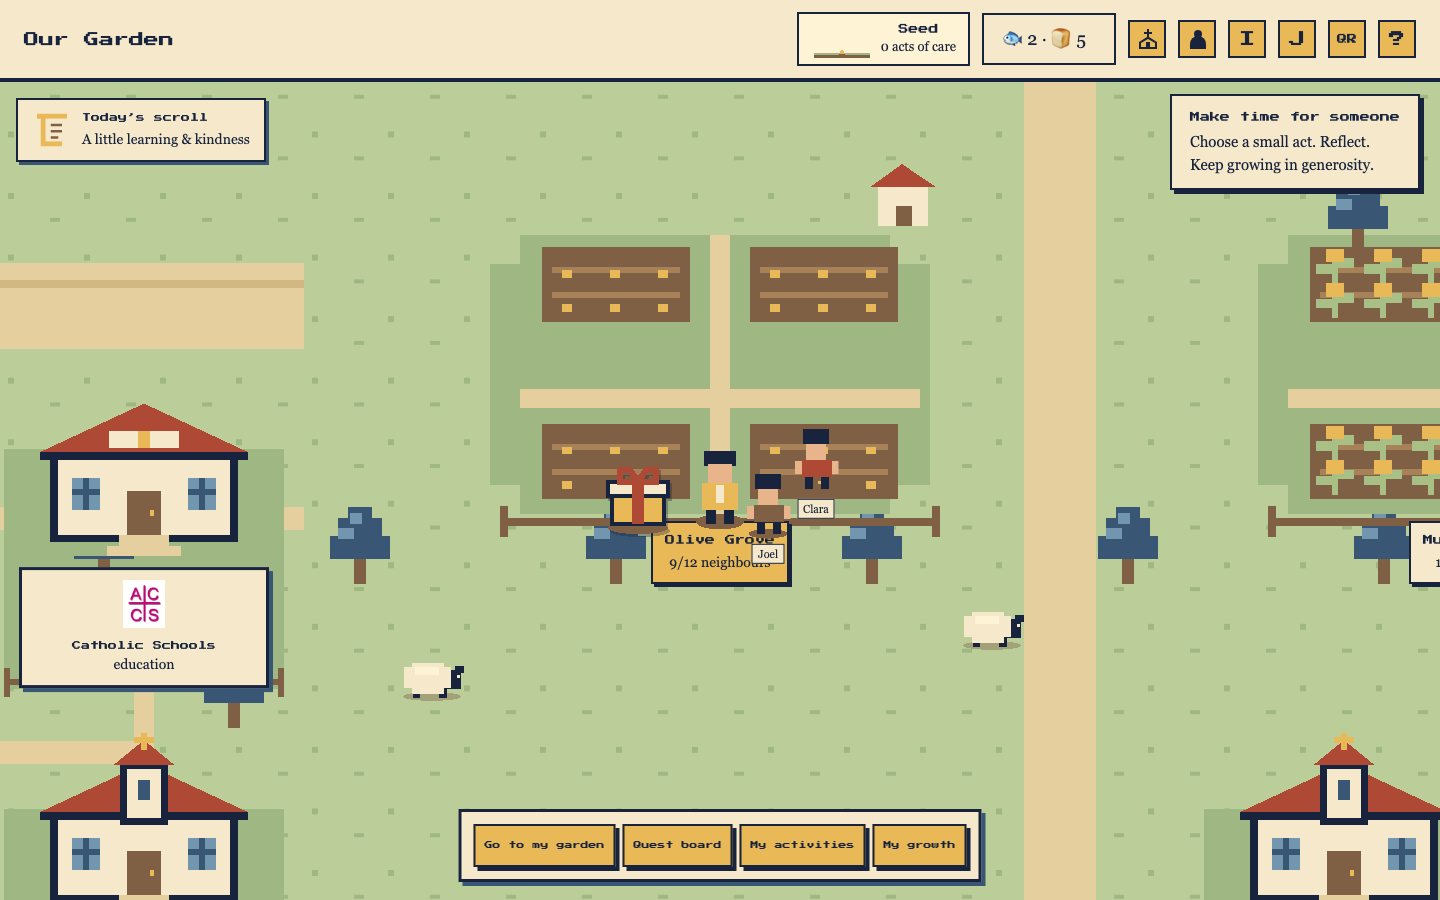
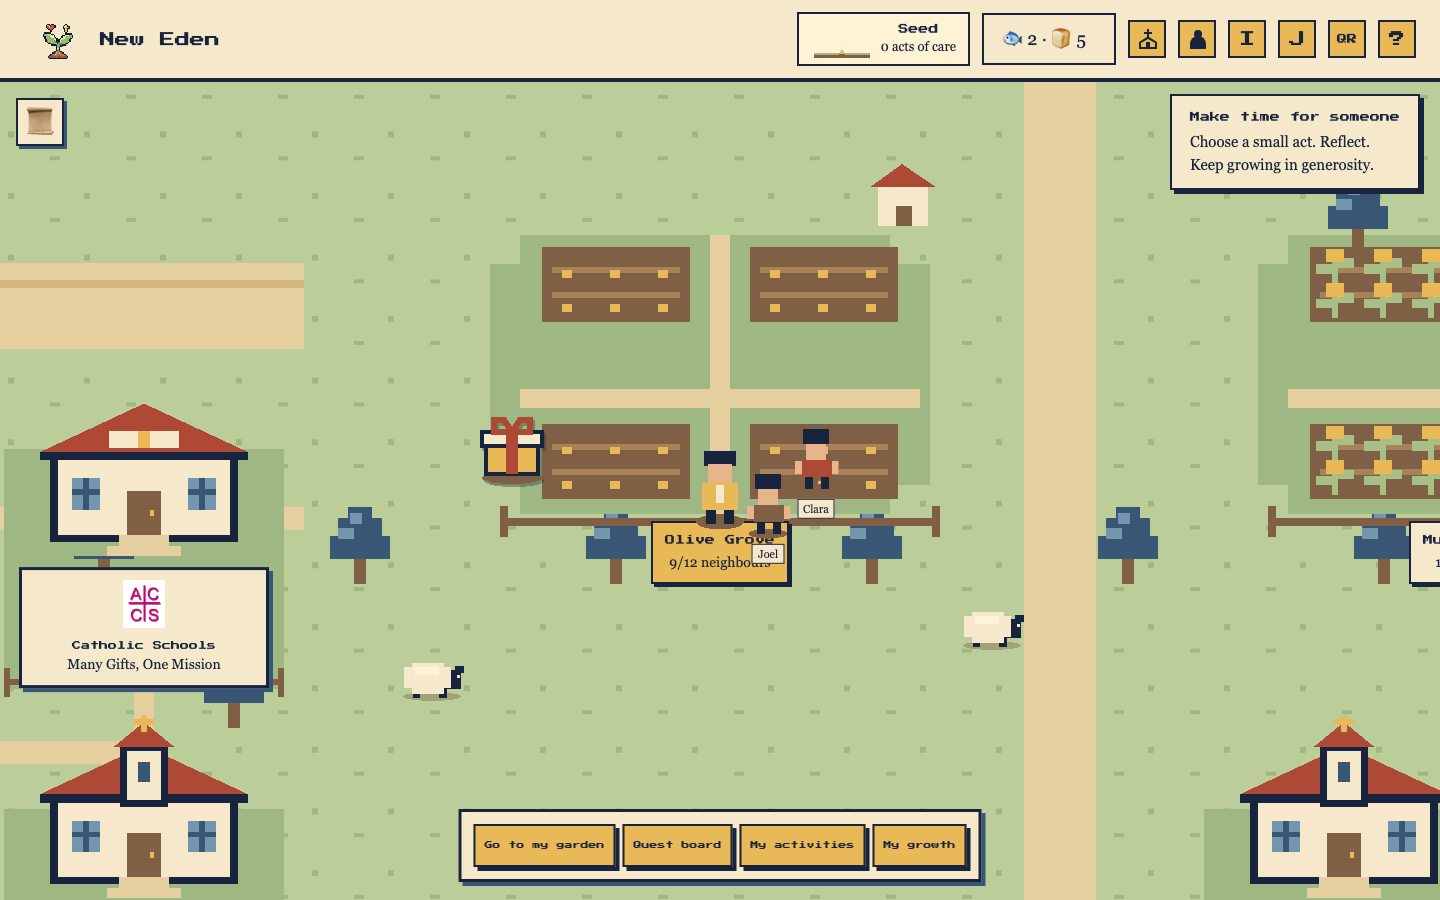
fixed minor UI and updated readme

diff --git a/src/styles.css b/src/styles.css
@@ -114,7 +114,7 @@
 
 .stewardship-learning{padding:20px;background:#fff3d6;border:3px solid var(--ink);margin-bottom:24px}.learning-heading{display:flex;justify-content:space-between;gap:16px;align-items:start}.learning-heading h3{font-size:23px;margin:8px 0}.stewardship-learning .eyebrow{font:9px/1.8 var(--pixel)}.learning-tabs{display:flex;gap:8px;flex-shrink:0}.learning-tabs button{font:16px Georgia,serif;background:var(--paper);color:var(--ink);border:2px solid var(--ink);padding:10px;min-height:44px}.learning-tabs button[aria-pressed=true]{background:var(--gold)}.learning-theme{color:var(--blue);font-size:15px;margin:8px 0 18px}.learning-prompt{min-height:110px;font:18px/1.6 Georgia,serif}.learning-prompt p{margin:8px 0 20px}.learning-prompt label{display:block}.learning-prompt textarea{display:block;width:100%;box-sizing:border-box;margin-top:10px;padding:12px;border:2px solid var(--ink);background:var(--paper);font:17px/1.5 Georgia,serif}.learning-prompt small,.learning-source{display:block;font:14px/1.5 Georgia,serif;color:var(--blue)}.learning-actions{display:flex;gap:12px;flex-wrap:wrap;margin:18px 0}.stewardship-learning>a{font:16px Georgia,serif}.learning-source{margin-top:8px}
 
-.quest-daily-row{display:grid;grid-template-columns:minmax(0,1fr) minmax(0,1fr);gap:16px;margin-bottom:20px;align-items:start}.quest-daily-row .stewardship-learning,.quest-daily-row .daily-gift{margin:0;padding:16px;border-width:2px;box-shadow:none}.quest-daily-row .daily-gift{display:block}.quest-daily-row h3{font:700 20px/1.3 Georgia,serif;margin:8px 0}.quest-daily-row p{font-size:16px;line-height:1.4;margin:8px 0 12px}.quest-daily-row .eyebrow{font:8px/1.7 var(--pixel);margin:0 0 8px}.quest-daily-row .learning-heading{display:block}.quest-daily-row .learning-tabs{gap:6px;margin:8px 0}.quest-daily-row .learning-tabs button{font-size:14px;padding:6px 10px}.quest-daily-row .pixel-button{font-size:9px;padding:12px;min-height:44px;margin:0 0 8px}.quest-daily-row .daily-gift .pixel-button{width:auto}.quest-daily-row .learning-theme,.quest-daily-row .learning-source{display:none}.quest-daily-row .stewardship-learning>a{display:block;font-size:13px;margin-top:4px}.quest-daily-row .learning-prompt{min-height:0;font-size:16px}.quest-daily-row .learning-actions{margin:12px 0 0}
+.quest-daily-row{display:grid;grid-template-columns:repeat(2,minmax(0,1fr));gap:16px;margin-bottom:20px;align-items:stretch}.quest-daily-row .stewardship-learning,.quest-daily-row .daily-gift{margin:0;padding:16px;border-width:2px;box-shadow:none;min-width:0}.quest-daily-row .daily-gift{display:flex;flex-direction:column;justify-content:space-between}.quest-daily-row h3{font:700 20px/1.3 Georgia,serif;margin:8px 0}.quest-daily-row p{font-size:16px;line-height:1.4;margin:8px 0 12px}.quest-daily-row .eyebrow{font:8px/1.7 var(--pixel);margin:0 0 8px}.quest-daily-row .learning-heading{display:block}.quest-daily-row .learning-tabs{gap:6px;margin:8px 0}.quest-daily-row .learning-tabs button{font-size:14px;padding:6px 10px}.quest-daily-row .pixel-button{font-size:9px;padding:12px;min-height:44px;margin:0 0 8px}.quest-daily-row .daily-gift .pixel-button{width:auto}.quest-daily-row .learning-theme,.quest-daily-row .learning-source{display:none}.quest-daily-row .stewardship-learning>a{display:block;font-size:13px;margin-top:4px}.quest-daily-row .learning-prompt{min-height:0;font-size:16px}.quest-daily-row .learning-actions{margin:12px 0 0}
 .today-scroll{position:absolute;top:16px;left:16px;z-index:5;display:grid;place-items:center;background:var(--paper);color:var(--ink);border:2px solid var(--ink);box-shadow:3px 3px var(--blue);padding:0;cursor:pointer;width:48px;height:48px}.today-scroll span{font:28px/1 Georgia,serif}
 .parish-tabs{display:flex;gap:8px;margin-bottom:20px}.parish-tabs button{min-height:44px;padding:9px 14px;border:2px solid var(--ink);background:var(--paper)}.parish-tabs button[aria-pressed=true]{background:var(--gold)}.parish-polls form,.poll-answer form{display:grid;gap:12px}.parish-polls label,.poll-answer label{display:block}.parish-polls input:not([type=radio]){width:100%;max-width:none;min-height:44px;border:2px solid var(--ink);background:#fff3d6;padding:10px}.parish-polls fieldset,.poll-answer fieldset{border:2px solid var(--ink);display:grid;gap:8px}.parish-polls fieldset label,.poll-answer fieldset label{display:flex;gap:10px;align-items:center}.parish-polls input[type=radio],.poll-answer input[type=radio]{accent-color:var(--blue)}.poll-insight,.poll-answer{margin-top:18px;padding:16px;border:2px solid var(--ink);background:#fff3d6}.poll-insight small{display:block;color:var(--blue)}.poll-insight ul{padding-left:20px}.poll-answer .pixel-button{justify-self:start}.parish-polls :focus-visible,.poll-answer :focus-visible,.parish-tabs :focus-visible{outline:3px solid var(--rose);outline-offset:3px}
 .poll-answer{max-width:100%;padding:20px}.poll-answer h3{font:700 22px/1.3 Georgia,serif;margin:4px 0}.poll-audience{font-size:14px;color:var(--blue);margin:0 0 12px}.poll-question{font-size:18px;line-height:1.4;margin:0 0 18px}.poll-answer fieldset{min-width:0;margin:0;padding:0;border:0;gap:8px}.poll-answer legend{font-size:15px;font-weight:700;margin-bottom:10px}.poll-answer fieldset .poll-choice{display:grid;grid-template-columns:20px minmax(0,1fr);gap:12px;align-items:center;min-width:0;min-height:52px;margin:0;padding:12px;border:2px solid var(--ink);background:var(--paper);font:16px/1.4 Georgia,serif;cursor:pointer}.poll-answer fieldset .poll-choice:hover{background:#fff8e9}.poll-answer fieldset .poll-choice:has(input:checked){background:var(--gold)}.poll-answer .poll-choice input[type=radio],.parish-polls fieldset input[type=radio]{display:block;width:18px;height:18px;max-width:18px;min-width:18px;margin:0;padding:0;accent-color:var(--blue);justify-self:start;flex:none}.poll-answer .poll-choice span{min-width:0;overflow-wrap:anywhere}.poll-answer .pixel-button{margin-top:6px}.parish-polls fieldset{min-width:0}.parish-polls fieldset label{gap:12px;min-height:44px;margin:0}.parish-polls fieldset input[type=radio]{margin:0}

diff --git a/src/mobile.css b/src/mobile.css
@@ -38,6 +38,18 @@
 /* Render the mobile world at 50% scale without shrinking the HUD. */
 @media(max-width:900px){.game-world .map{zoom:.5}}
 @media(max-width:900px){.stewardship-learning{padding:14px}.learning-heading{display:block}.learning-tabs{margin:12px 0;flex-wrap:wrap}.learning-prompt{font-size:17px}.learning-actions .pixel-button{width:100%}}
-@media(max-width:600px){.quest-daily-row{grid-template-columns:minmax(0,1fr);gap:12px}.quest-daily-row .learning-actions .pixel-button{width:auto}}
+@media(max-width:600px){
+ .quest-daily-row{grid-template-columns:minmax(0,1fr);gap:10px;margin-bottom:16px}
+ .quest-daily-row .stewardship-learning,.quest-daily-row .daily-gift{padding:12px}
+ .quest-daily-row .daily-gift{gap:4px}
+ .quest-daily-row h3{font-size:19px;margin:4px 0 6px}
+ .quest-daily-row p{font-size:15px;line-height:1.35;margin:6px 0 8px}
+ .quest-daily-row .eyebrow{margin-bottom:4px}
+ .quest-daily-row .learning-tabs{margin:6px 0;gap:6px}
+ .quest-daily-row .learning-tabs button{flex:1;font-size:13px;padding:6px 8px}
+ .quest-daily-row .pixel-button{margin-bottom:4px;padding:8px 10px}
+ .quest-daily-row .learning-actions .pixel-button{width:auto}
+ .quest-daily-row .stewardship-learning>a{margin-top:0}
+}
 @media(max-width:900px){.today-scroll{top:12px;left:12px;width:44px;height:44px}.today-scroll span{font-size:26px}}
 @media(max-width:900px){.game-world:has(.today-scroll) .world-tip{top:84px}}

diff --git a/README.md b/README.md
@@ -19,7 +19,7 @@ Built for the Catholic FIAT hackathon organised by the Archdiocese of Singapore.
 
 [Open New Eden](https://fiat-hackathon-iota.vercel.app)
 
-The experience supports desktop and mobile browsers. On phones, use **Explore map** to reach gardens, organisations and gifts; the world is shown at half scale with touch-friendly navigation. Walk by clicking open ground or using the arrow keys / WASD. Visit garden signs and organisation buildings, explore the quest board, and use **Go to my garden** to return home. The welcome introduction can be replayed using the **I** button or from Help. Open the Giving Store from the wallet, and use the labelled HUD buttons for **Parish team** and **My profile**.
+The experience supports desktop and mobile browsers. On phones, the world is shown at half scale; use the touch-friendly map signs and bottom toolbar to navigate. Walk by clicking open ground or using the arrow keys / WASD. Visit garden signs and organisation buildings, explore the quest board, and use **Go to my garden** to return home. The Mustard Seed introduction can be replayed using the **I** button or from Help. Open the Giving Store from the wallet, and use the labelled HUD buttons for **Parish team** and **My profile**.
 
 A suggested walkthrough:
 
@@ -29,16 +29,18 @@ A suggested walkthrough:
 4. Mark the activity complete and see your contribution garden grow.
 5. Pause to reflect, explore researched Catholic pathways, or visit the Giving Store.
 6. Open **Parish team** to create a quest with a purpose, duration, volunteer capacity, help type and three practical steps; find it on the quest board and try its participation flow.
+7. Switch to **Surveys** to draft a parish or Mass-specific survey, then answer it in Today’s scroll and review local response counts.
 
-The hosted version may differ from changes in the local checkout.
+The screenshots below show the local build. The hosted version may differ from changes in the local checkout.
 
 ## What works
 
 - **Explorable garden:** original pixel scenery, avatar movement, community plots, wandering neighbours and sheep, and organisation stops.
 - **Community participation:** join or create a garden with room for up to 12 and choose fictional parish companions. A collapsible meetup form offers the next six weekends and a St Mary’s Mass selection based on a user-supplied schedule; proposals remain local.
 - **Gardener profile:** selectable word-cloud buttons for gifts, causes, personal intention and participation capacity. Eight concise cause groups map to the 17 research categories used for recommendations.
-- **Today’s scroll:** a map shortcut opens seven rotating original daily learning topics, weekly circle learning and a daily small act. Learning follows reading, exercise and reflection, with one symbolic loaf per dated daily or weekly completion. The scroll disappears after today’s learning and small act are complete; reopening preserves session progress. Content is inspired by God, Money & Me themes and does not certify official course completion.
+- **Today’s scroll:** a compact map icon opens seven rotating original daily learning topics, weekly circle learning, a daily small act and parish surveys. Learning follows reading, exercise and reflection, with one symbolic loaf per dated daily or weekly completion. The scroll disappears after today’s learning, small act and available surveys are complete; reopening preserves session progress. Content is inspired by God, Money & Me themes and does not certify official course completion.
 - **Giving activities:** nine seeded illustrative quests, gift-based recommendations, size filters, daily small-giving invitations, accepted activities and self-reported completion. Participation bars show seeded signup counts plus your own acceptance; full quests prevent new acceptance.
+- **Parish surveys:** the Parish team editor supports one to five questions with two to six choices each, targeted to everyone in the demo parish or a named Mass. Today’s scroll includes a sample survey and newly posted surveys. Participants answer each survey once per session for one symbolic loaf; the local insights list shows per-question counts.
 - **Parish quest studio:** create session-only quests with a title, purpose, duration, 1–500 volunteer places, help type and three steps. Full-width fields and inline help-type choices keep the form easy to scan. Published quests support acceptance, completion, garden growth and a Scripture-based reflection.
 - **Personal growth:** seed-to-garden participation milestones, contribution flowers, gratitude, optional plans, a journal and reflections.
 - **Catholic pathways:** researched organisation and programme cards with official source links, availability caveats and a separate voluntary giving route.
@@ -66,6 +68,10 @@ Captured from the current local production build using fictional fixture data.
 
 ![Prayer, time and care, and shared cause options](docs/screenshots/giving-store.png)
 
+### Parish surveys
+
+![Parish survey editor](docs/screenshots/parish-surveys.png)
+
 ### Mobile quests
 
 ![Mobile quest board with touch-friendly cards](docs/screenshots/quests-mobile.png)
@@ -78,7 +84,7 @@ Participant-facing screens and save confirmations use concise language with fewe
 
 Gardens and neighbours are fictional. Activity completion is self-reported, and photos or notes are not uploaded. Invitation and sharing controls do not automatically send messages, register participants or confirm attendance. Circle reflection sharing updates a local board only; private notes are not shared automatically.
 
-The parish quest studio is an unauthenticated presentation workspace. Created quests disappear on reload. Seeded participant counts are illustrative; accepting adds only the current browser user, and selecting companions does not register them. No live parish publishing, volunteer registration or capacity coordination is connected.
+The parish quest studio and survey editor are unauthenticated presentation workspaces. Created quests and surveys disappear on reload. Survey audience labels and response counts are local examples; no Mass attendance or parish membership is verified. Seeded participant counts are illustrative; accepting adds only the current browser user, and selecting companions does not register them. No live parish publishing, volunteer registration or capacity coordination is connected.
 
 Loaves & Fish are symbolic and have no cash value. Store pools and their milestones are illustrative: no payments or donations are processed. Saving a prayer or care intention does not verify completion or send a message. Participation milestones do not measure spiritual maturity; prayer and private reflections earn no currency.
 
